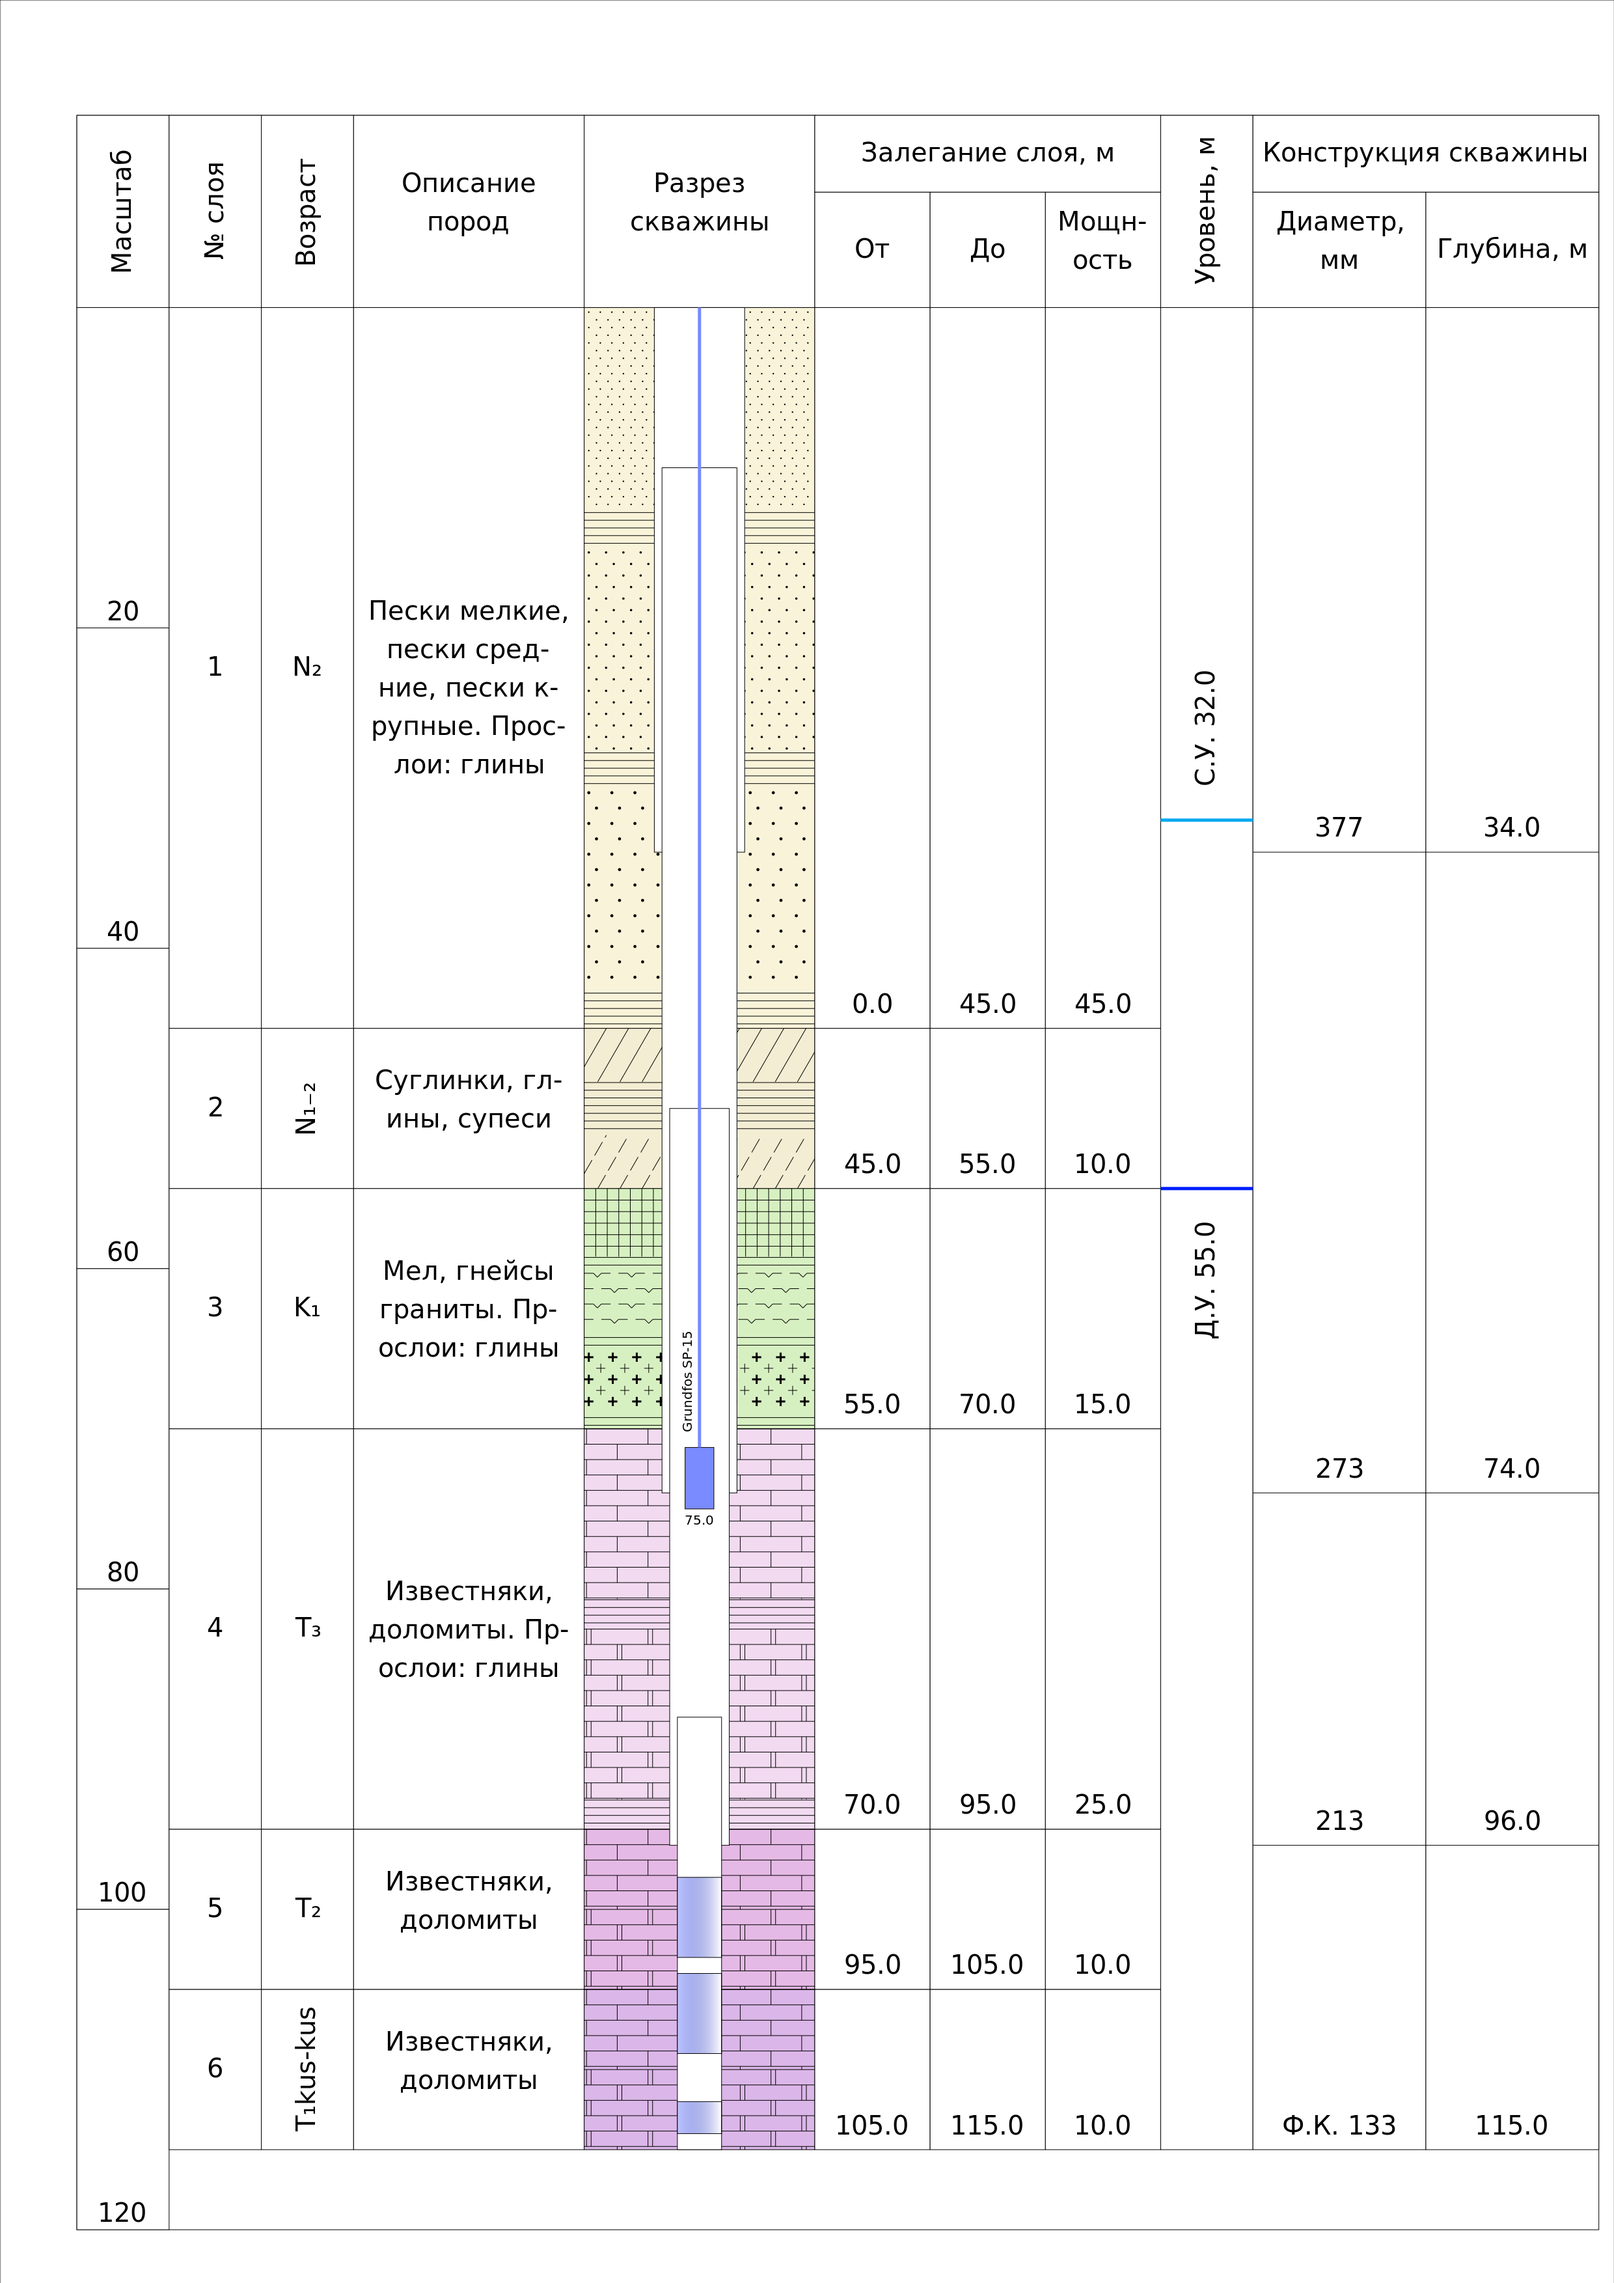
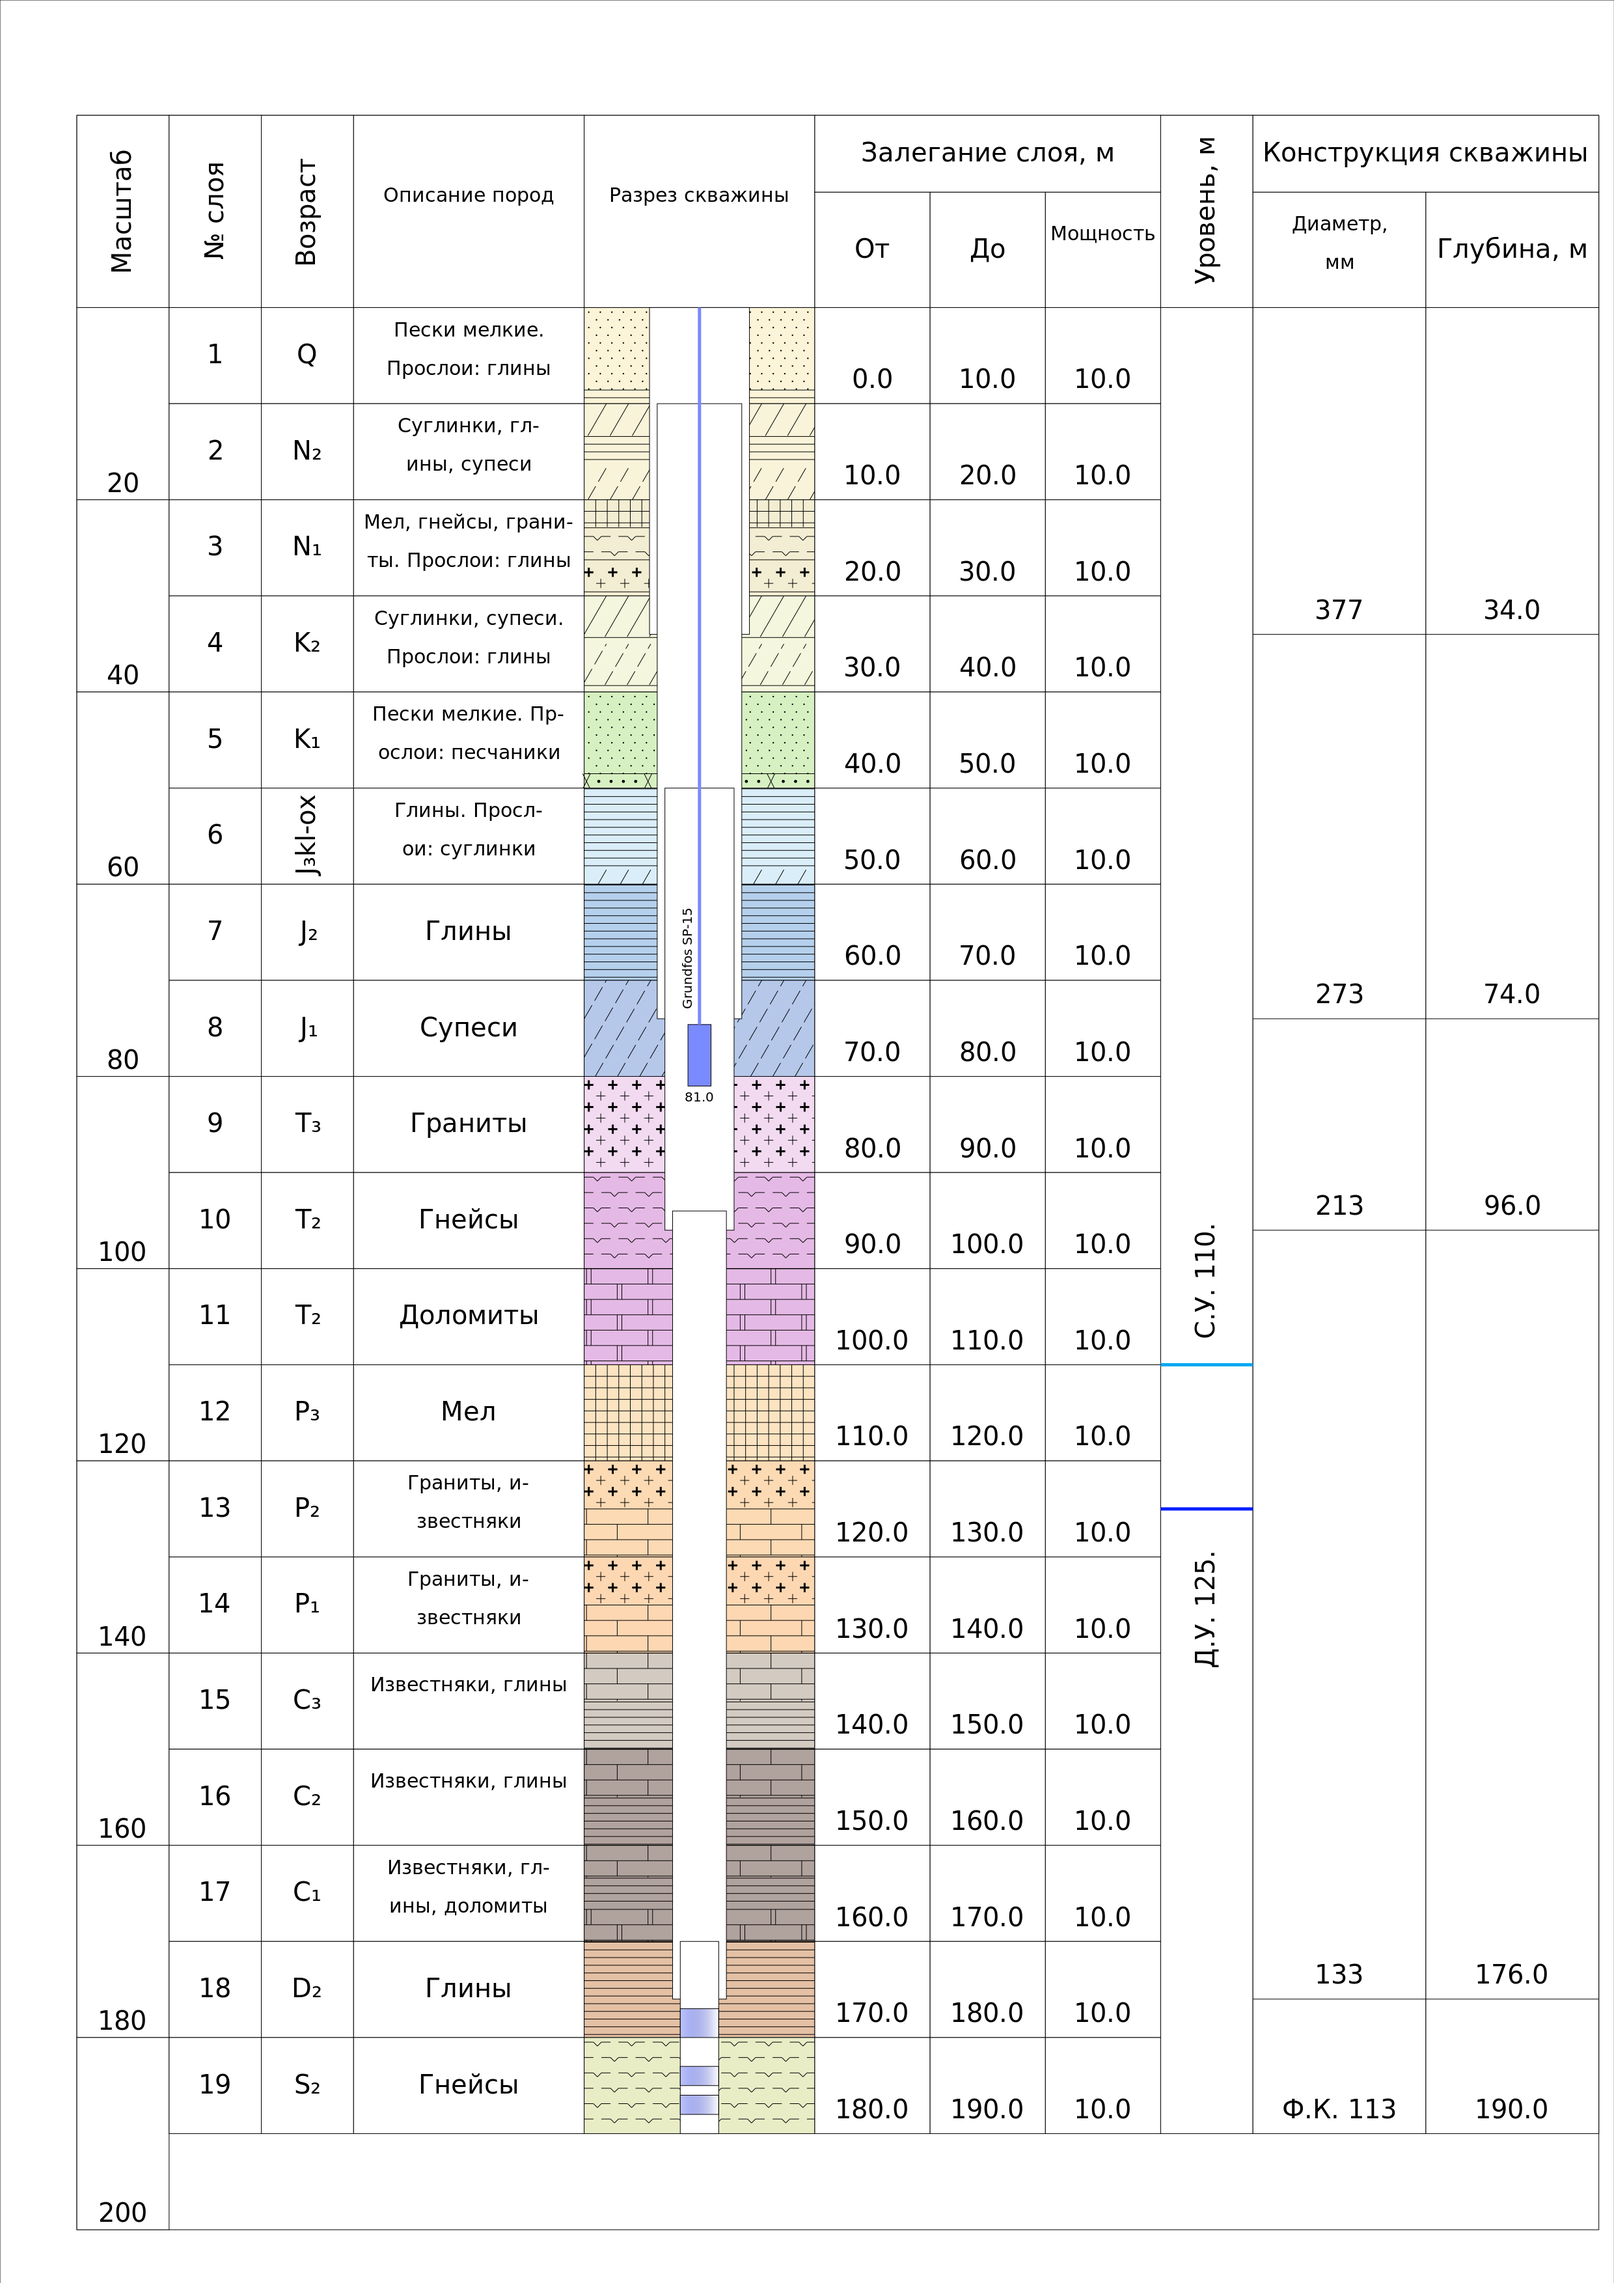
add small text scaling

diff --git a/drawing/main.py b/drawing/main.py
@@ -3,9 +3,9 @@ from index_colours import colour, convertation
 from specks import speck
 import math
 from format import frmt
-from fixtures import well_data_2
+from fixtures import well_data_3
 
-# from fixtures import well_data_3
+# from fixtures import well_data_2
 
 # from fixtures import well_data_1
 
@@ -25,9 +25,13 @@ def main(well_dt):
         10 * koef, 7 * koef, 198 * koef, 275 * koef, fill="white", stroke="black"
     )
     d.append(r)
+    # создает заголовки таблиц
     header(d)
+    # создает масштабную линейку
     scale(d, well_depth)
+    # отрисовывает геологические слои
     layers(d, well_depth, well_dt)
+    # отрисовывает все относящиеся к скважине
     well(d, well_dt)
     d.savePng("example.png")
     # почему-то Svg криво работает, половина графики не отображается
@@ -164,7 +168,11 @@ def rectangle(d, x, y, x1, y1, text, direction):
         d.append(draw.Text([text], 40, path=p, text_anchor="middle"))
 
     elif direction == "h":
-        number_str = math.ceil(abs((len(text) * 2.1) / x1))
+        number_str = math.ceil(abs((len(text) * 1.6) / x1))
+        if number_str * 5 >= 0.8 * y1:
+            text_size = 30
+        else:
+            text_size = 40
         i = 0
         # Первоначальное положение строки
         # строится в зависимости от расстояния межу строками
@@ -194,6 +202,8 @@ def rectangle(d, x, y, x1, y1, text, direction):
                 insert = str(text[text_start_step : text_end_step - 1])
             elif str(text[text_end_step]) == ",":
                 insert = str(text[text_start_step : text_end_step + 1])
+            elif str(text[text_end_step]) == ".":
+                insert = str(text[text_start_step : text_end_step + 1])
             else:
                 insert = str(text[text_start_step:text_end_step]) + "-"
             # коррекция начала строки
@@ -201,7 +211,9 @@ def rectangle(d, x, y, x1, y1, text, direction):
                 insert = insert[2:]
             elif str(text[text_start_step]) == " ":
                 insert = insert[1:]
-            d.append(draw.Text([insert], 40, path=p, text_anchor="middle"))
+            elif str(text[text_start_step]) == ".":
+                insert = insert[2:]
+            d.append(draw.Text([insert], text_size, path=p, text_anchor="middle"))
             # смещение относительно первоначальной строки
             y += -5
             i += 1
@@ -220,9 +232,11 @@ def rectangle(d, x, y, x1, y1, text, direction):
             insert = text[text_start_step + 2 :]
         elif str(text[text_start_step]) == " ":
             insert = text[text_start_step + 1 :]
+        elif str(text[text_start_step]) == ".":
+            insert = text[text_start_step + 2 :]
         else:
             insert = text[text_start_step:]
-        d.append(draw.Text([insert], 40, path=p, text_anchor="middle"))
+        d.append(draw.Text([insert], text_size, path=p, text_anchor="middle"))
 
 
 # создание слоя
@@ -564,4 +578,4 @@ def well(d, well_dt):
 
 
 if __name__ == "__main__":
-    main(well_data_2)
+    main(well_data_3)
